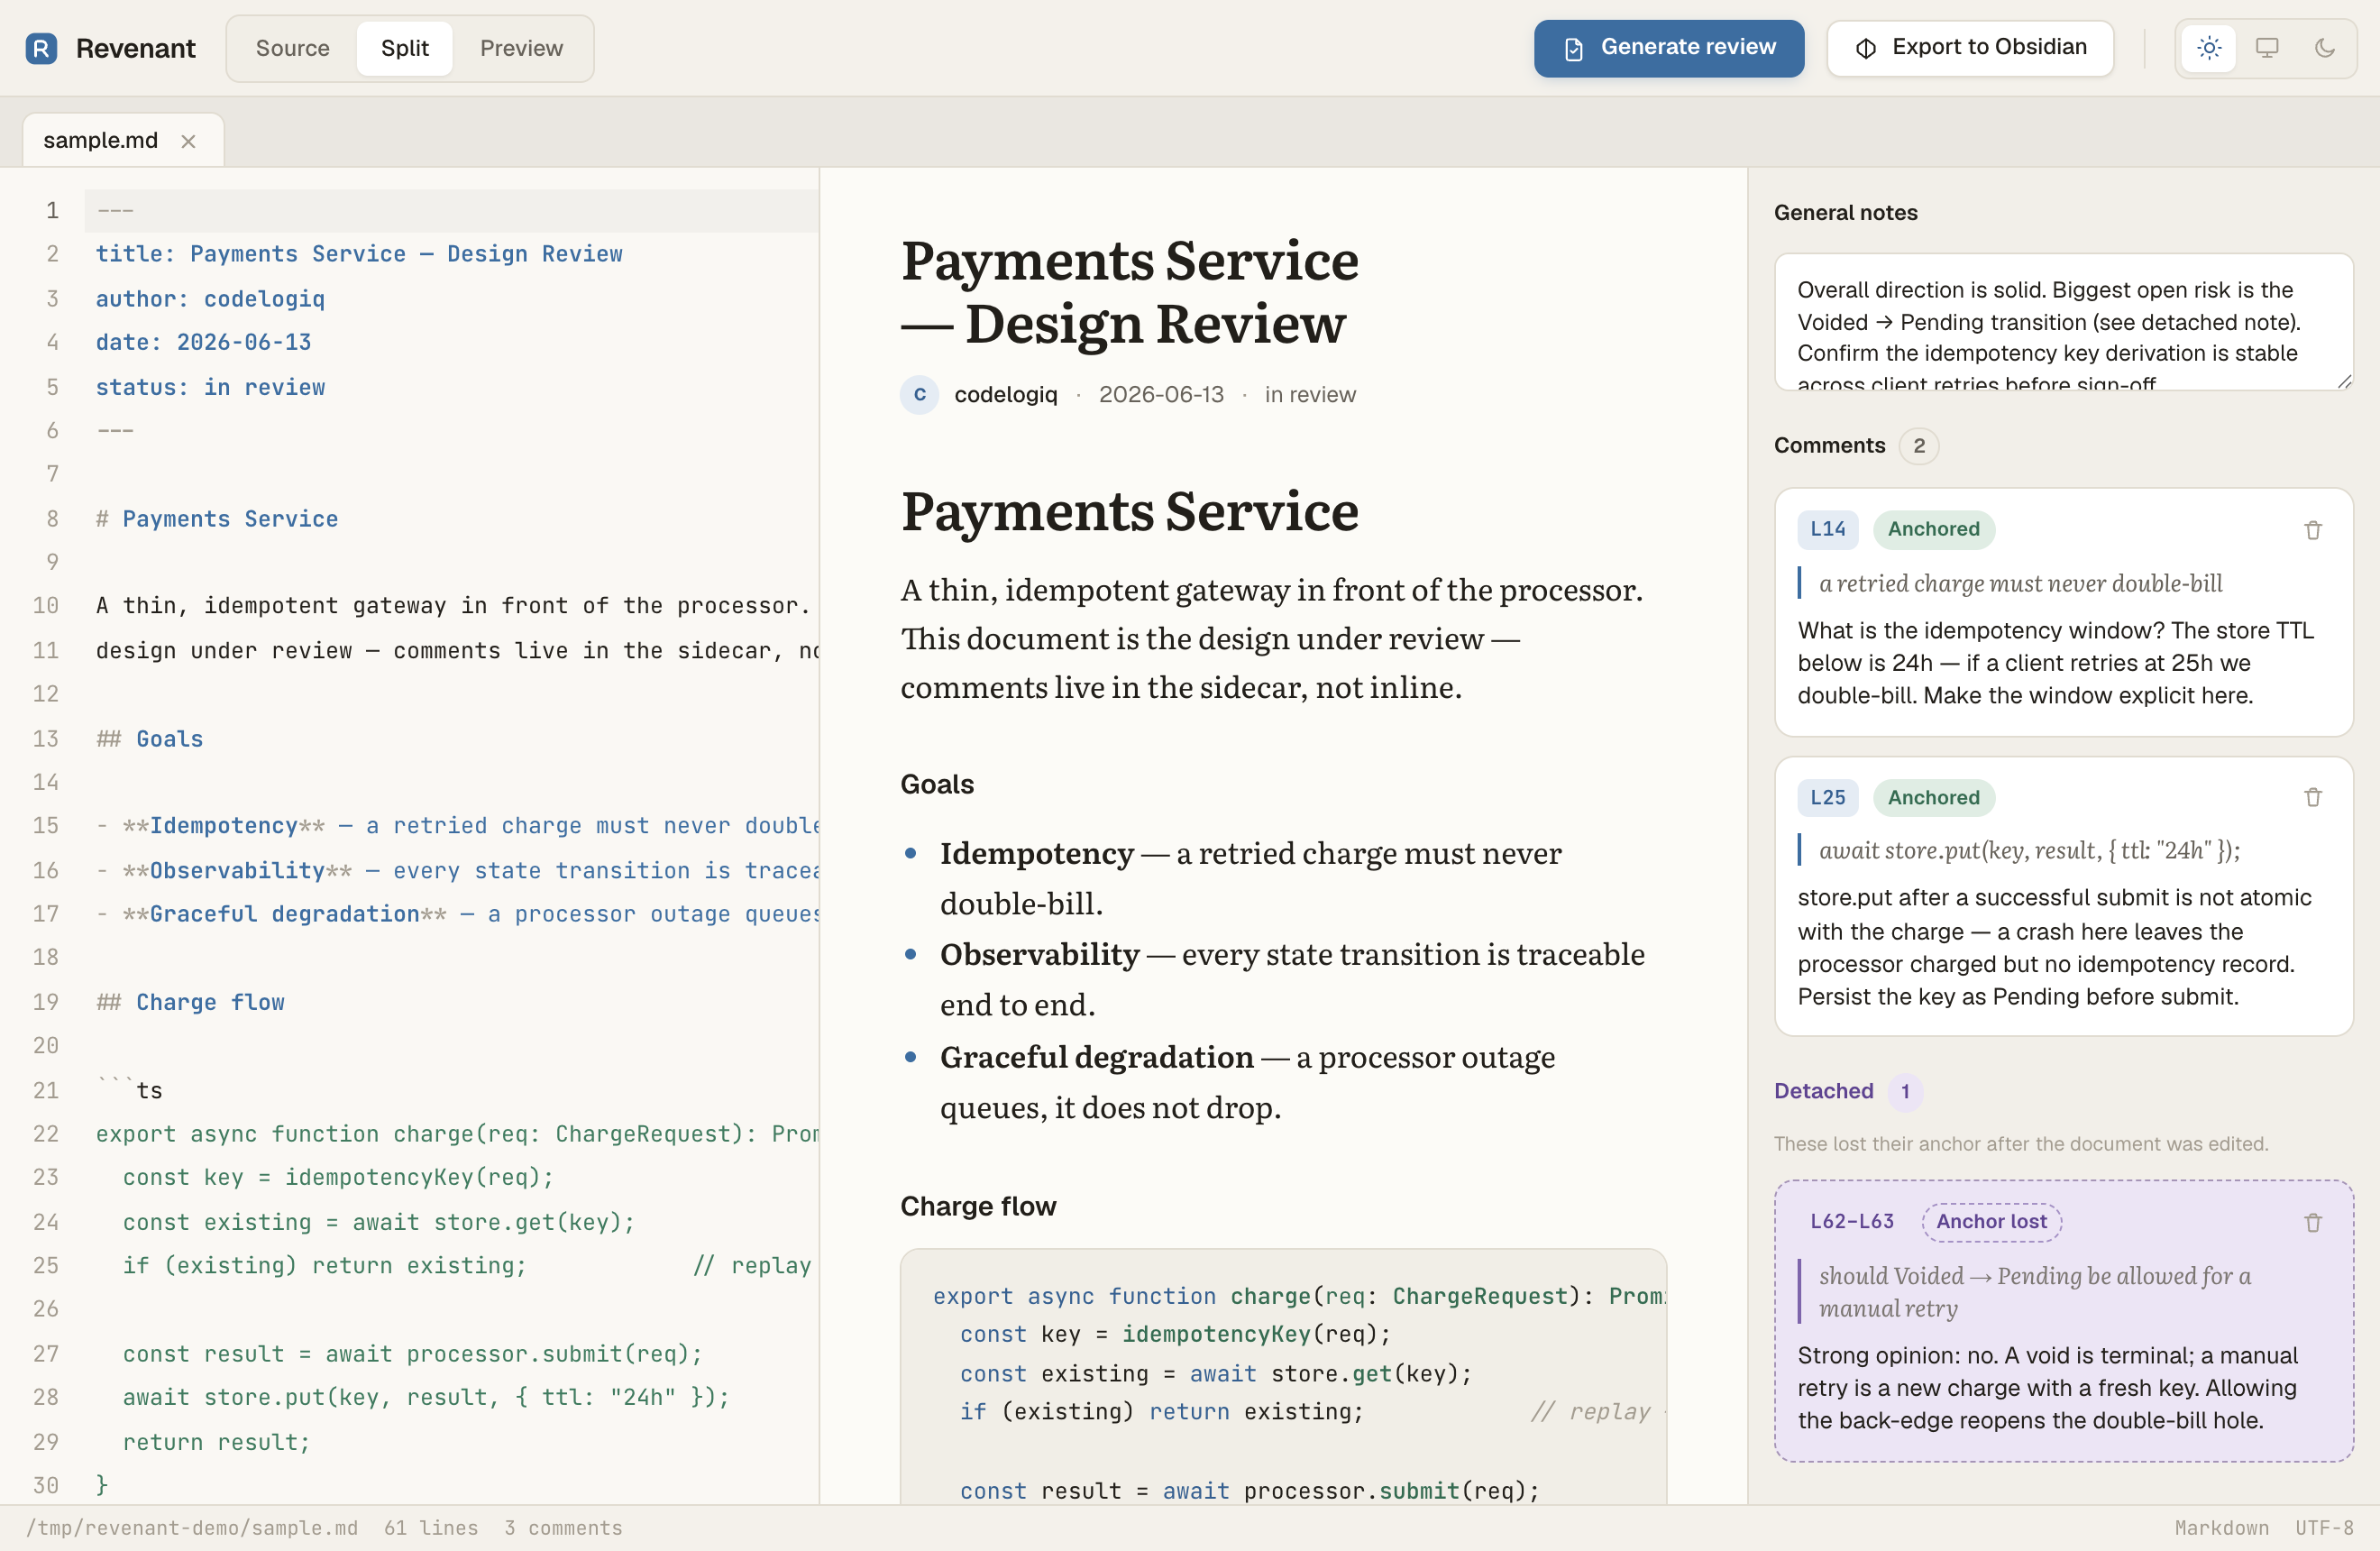
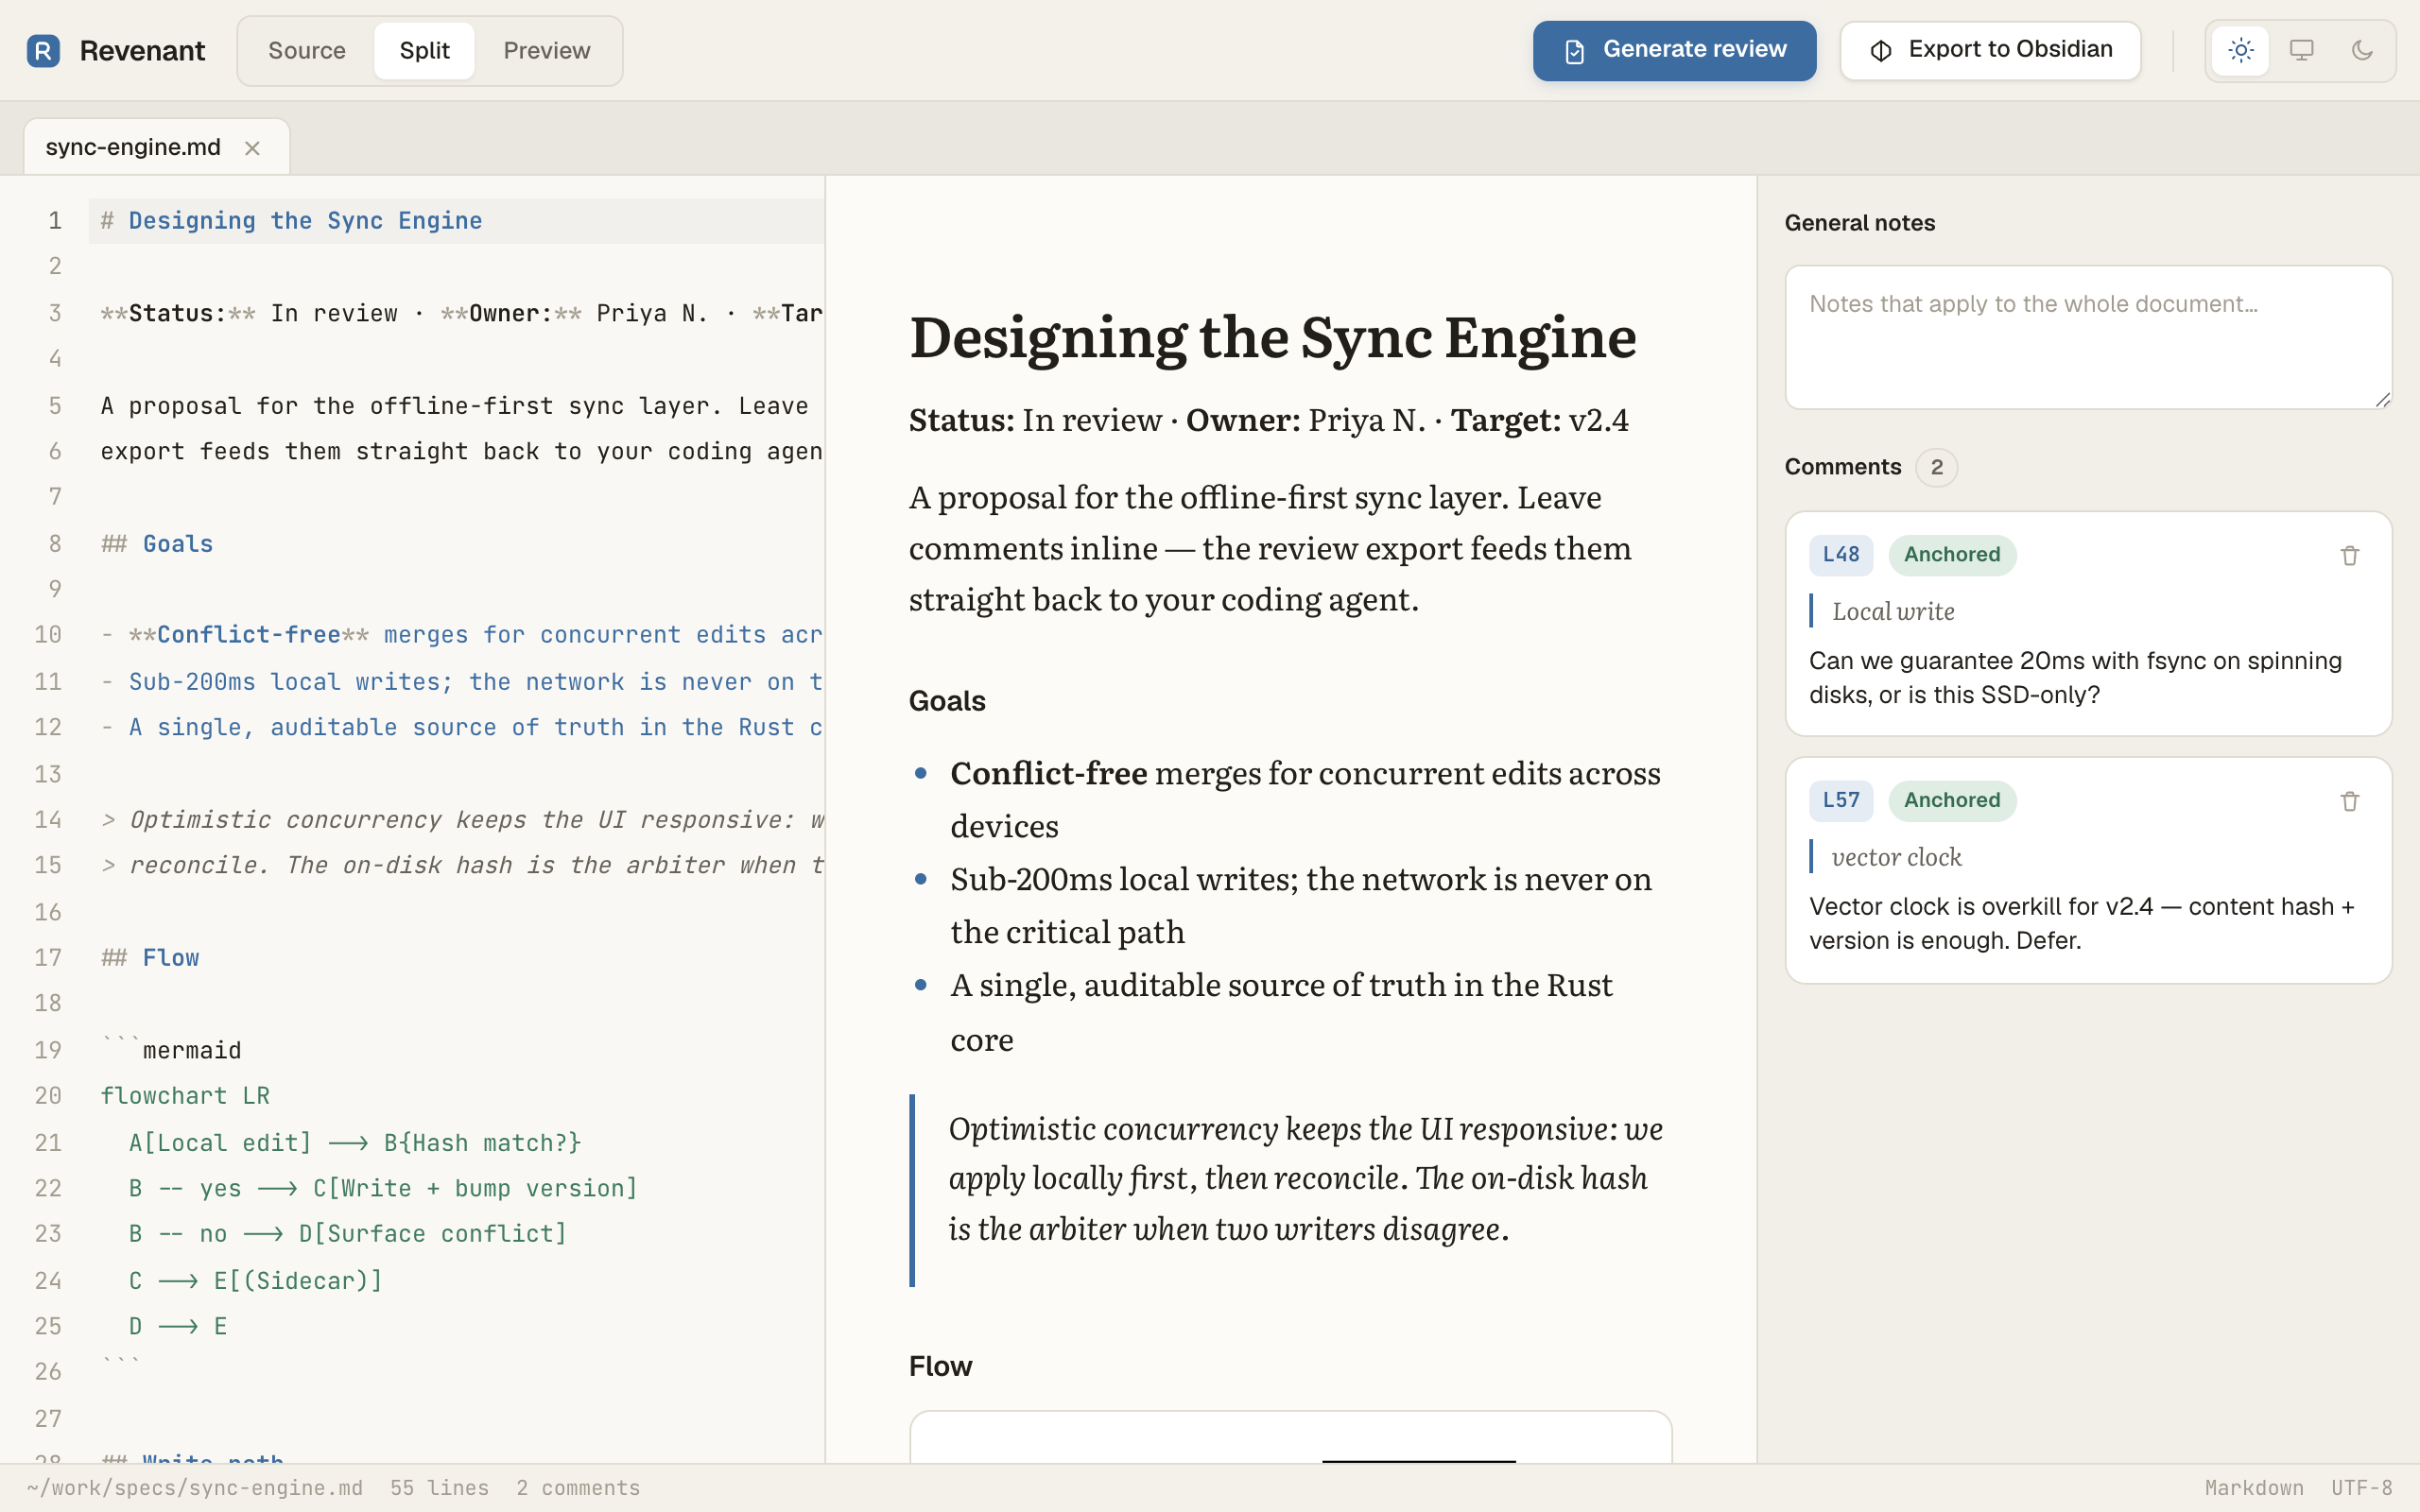
docs: refresh README screenshots, add suminagashi transition
Regenerate the screenshots from the current design system and add a frame
of the signature ink-dissolution open transition (mid-bloom, strokes drawing
the page into focus). Captured by rendering the live Svelte frontend in
headless Chrome with a mocked Tauri IPC bridge.

diff --git a/README.md b/README.md
@@ -10,15 +10,21 @@ Open markdown files in tabs, edit source, preview rendered output side-by-side, 
 > JetBrains Mono, steel-blue accent, blue-violet for detached annotations.
 > Rendered from the live Svelte frontend; native window chrome omitted.
 
+**Review workspace — source editor, live preview, and annotation drawer**
+
+![Revenant workspace, Paper theme](docs/screenshots/workspace-light.png)
+
+**Ink-dissolution open transition** — a suminagashi (墨流し) GPU fluid simulation
+plays as the first document opens: themed ink swirls across the page while the
+strokes "draw" it into focus, then dissolve to reveal the live document.
+
+![Revenant suminagashi open transition](docs/screenshots/transition-light.png)
+
 **Welcome screen**
 
 ![Revenant welcome screen](docs/screenshots/welcome-light.png)
 
-**Review workspace — source editor, live preview, and annotation drawer (light)**
-
-![Revenant workspace, Paper theme](docs/screenshots/workspace-light.png)
-
-**Review workspace (dark)**
+**Graphite (dark) theme**
 
 ![Revenant workspace, Graphite theme](docs/screenshots/workspace-dark.png)
 